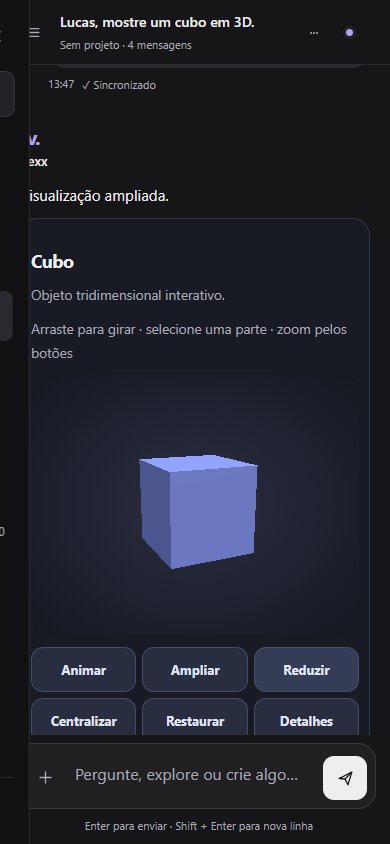
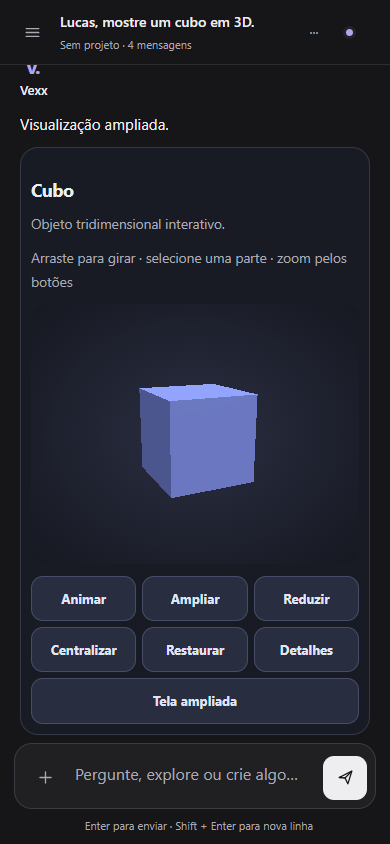
3d quase completo

diff --git a/docs/V5_3_PROGRESS.md b/docs/V5_3_PROGRESS.md
@@ -10,14 +10,18 @@ Intent Engine e respostas completas/SSE persistidas por conversa/dono.
 QA Chrome real passou em GPU Intel UHD/WebGL2: pixels mudam ao girar, seleção,
 zoom/reset/pausa, expansão, quatro formas, GLB, toque e largura 390 px, parada
 fora da tela, 35 buffers criados/deletados e zero canvases após descarte,
-fallback sem WebGL e conversa real com recarga. QA ampliado em execução para
-reduced motion, CPU 4x, perda de contexto, tamanho do modelo e cache offline.
+fallback sem WebGL e conversa real com recarga. QA ampliado concluído com sucesso:
+reduced motion, CPU 4x, perda de contexto, tamanho do modelo e cache offline
+na sessão aberta. Recarga integral offline continua sujeita à autenticação existente.
 
 Uma regressão intermediária ocorreu porque outro trabalho modificou
 `pc_agent.py`, `hermes_bridge.py` e adicionou `providers.py` durante a suíte:
 10 falhas de NameError (providers ainda não importado naquele instante).
 O import apareceu posteriormente. Nenhuma alteração concorrente foi desfeita.
-Os testes devem ser repetidos no estado final estável e registrados no relatório.
+A repetição completa passou: 488 passed, 5 skipped, duas advertências em 160,66 s.
+Os skips dependem de LLM real ou DDG/lojas indisponíveis. Foco final: 57 passed.
+HEAD avançou externamente de f6ad97f para 4f968eb durante a execução.
 
-Próximo passo: concluir QA ampliado, validar a suíte de regressão e os E2Es
-existentes, preencher métricas e relatório final. Não houve push/deploy.
+Implementação V5.3 e relatórios concluídos. Próxima validação recomendada:
+executar tools/3d/qa.cjs em Android físico modesto e Safari/iOS, medir energia,
+RAM GPU e sessão prolongada. Não houve push/deploy por esta rodada.

diff --git a/RELATORIO_JULIA_5.3.md b/RELATORIO_JULIA_5.3.md
@@ -79,8 +79,12 @@ existentes foram executados separadamente: **5 passed, 5 skipped** (dois testes
 LLM já marcados como bloqueados no projeto; três dependentes de DDG/lojas, rede
 sem resultados ou HTTP 403). Não foram removidos testes nem marcadores.
 
-A suíte completa final está sendo concluída; atualizar esta seção com a saída
-efetiva antes da entrega.
+**Suíte completa executada: 488 passed, 5 skipped, duas advertências, 160,66 s.**
+Os cinco skips são os mesmos bloqueios externos descritos acima. Após os últimos
+limites do schema, o foco final passou com 57 testes. A QA Chrome foi repetida
+após o ajuste de enquadramento e passou; screenshots mobile foram revisados.
+`git diff --check` passou. As advertências existentes são depreciações de mss
+e timeout do TestClient; não houve falha mascarada.
 
 ## Trabalho concorrente e rastreabilidade
 
@@ -91,7 +95,11 @@ modelos em `pc_agent.py`, `server.py`, `public/app.js`, `public/index.html`,
 preservadas e não fazem parte da implementação 3D. Uma suíte intermediária
 capturou o arquivo em transição e teve 10 falhas NameError por providers ainda
 não importado; depois houve uma falha de contrato do catálogo enquanto o teste
-correspondente era atualizado. A validação final usa o checkout atualizado.
+correspondente era atualizado. A validação final usa o checkout atualizado. O HEAD avançou externamente para
+`4f968eb` durante esta execução, incluindo trabalho 3D e de provedores. Não foi
+criado commit nem executado push/deploy por esta rodada do assistente. Edições
+concorrentes adicionais em research.py, tests/test_research_agents.py e
+docs/JULIA_PROVIDERS.md também foram preservadas.
 
 ## Limitações
 

diff --git a/docs/JULIA_3D_PERFORMANCE.md b/docs/JULIA_3D_PERFORMANCE.md
@@ -39,7 +39,7 @@ q=0 e q=0.5. Não há compressão dinâmica no backend nem interferência no SSE
   oculto, requestAnimationFrame deixa de ser agendado.
 - Reduced motion inicia pausado. Animação explícita continua disponível.
 
-Na amostra de 1.009 ms com CPU throttling **4×**, uma esfera gerou **30 chamadas
+Na amostra de 1.013 ms com CPU throttling **4×**, uma esfera gerou **31 chamadas
 de desenho**. É uma amostra curta de cena simples na GPU integrada do desktop,
 não uma promessa de FPS para qualquer celular. A GPU não foi desacelerada pela
 configuração de CPU do DevTools. A interação por toque foi exercida por eventos
@@ -57,9 +57,9 @@ Snapshots CDP desta execução:
 
 | Momento | Heap JavaScript usado | Listeners reportados |
 |---|---:|---:|
-| Um visualizador inicial | 6.231.188 bytes | 68 |
-| Depois da sequência, antes de GC | 7.302.188 bytes | 282 |
-| Depois de descarte e GC explícito | 4.197.632 bytes | 34 |
+| Um visualizador inicial | 4.821.860 bytes | 68 |
+| Depois da sequência, antes de GC | 7.283.324 bytes | 282 |
+| Depois de descarte e GC explícito | 4.200.888 bytes | 34 |
 
 Os números abrangem a página de QA, não apenas o componente. GC explícito é
 instrumentação de teste, não rotina de produção. Contar buffers e snapshots de heap

diff --git a/docs/JULIA_3D_ENGINE.md b/docs/JULIA_3D_ENGINE.md
@@ -61,7 +61,7 @@ contrato e mantém seus fallbacks. Campos desconhecidos são rejeitados, não ex
 
 Não existem campos src, url, HTML, callback, shader ou script. O texto é inserido
 com textContent. Não se executa código do LLM. O teto de fences do JDUI permanece
-em 24 KB. Para GLB, a única URL é constante e local, sem fetch Python; o leitor
+em 24 KB; cada cena model3d tem teto adicional de 20 KB. Para GLB, a única URL é constante e local, sem fetch Python; o leitor
 limita a resposta a 64 KiB antes do parse e rejeita URI, imagens e extensões.
 
 ## Catálogo e direitos
